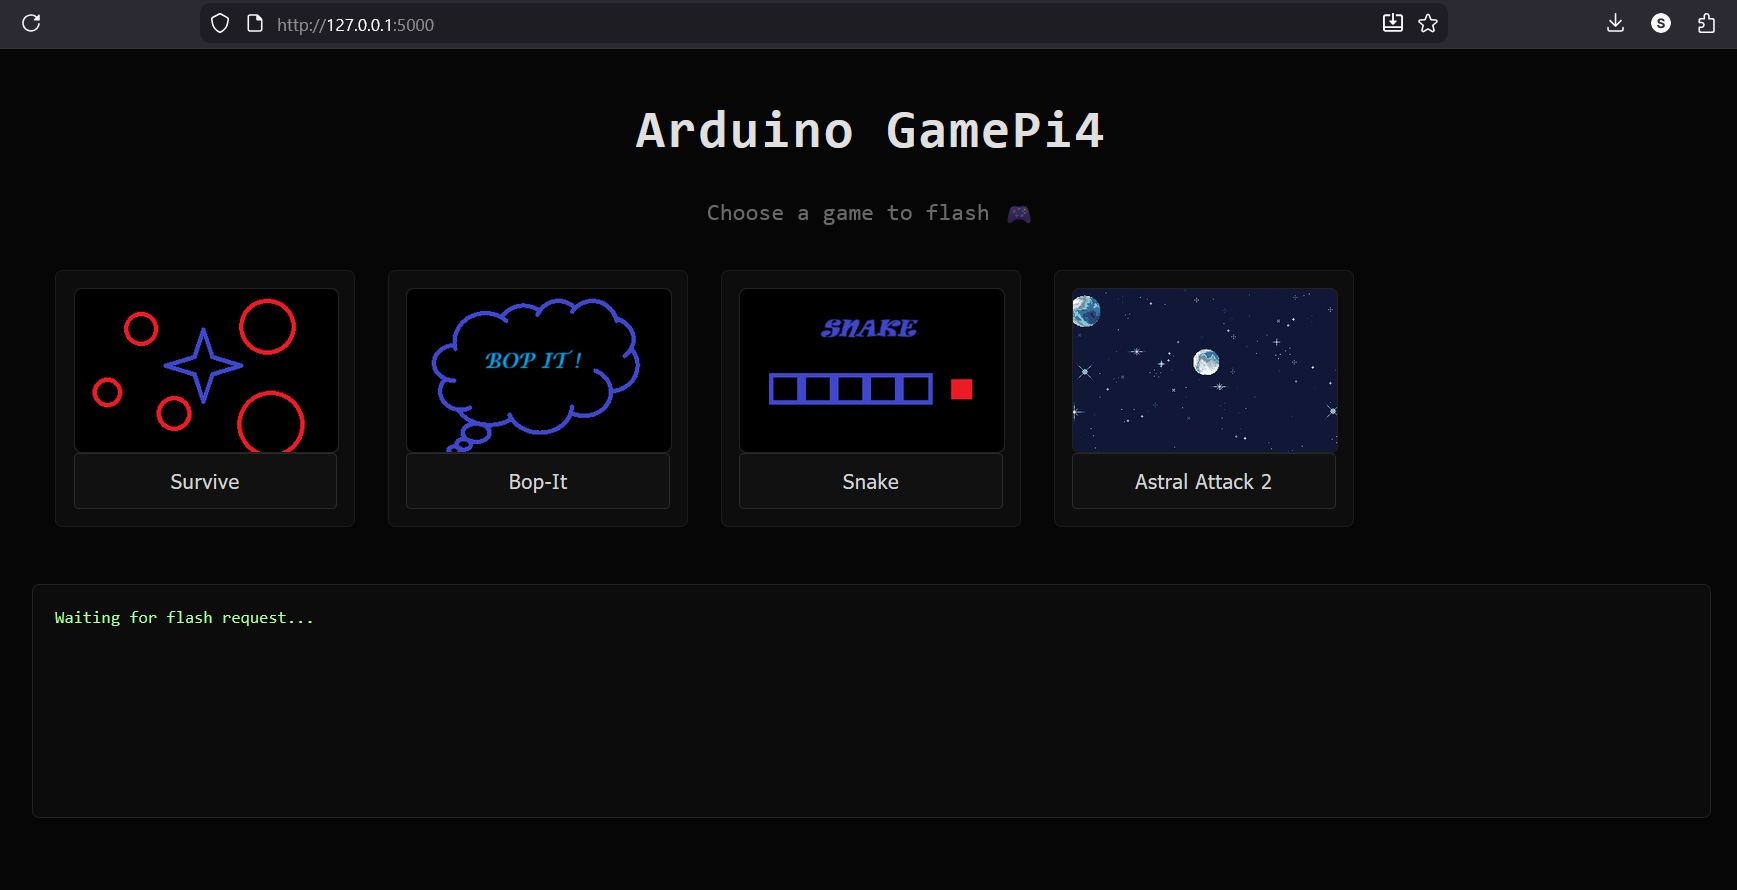
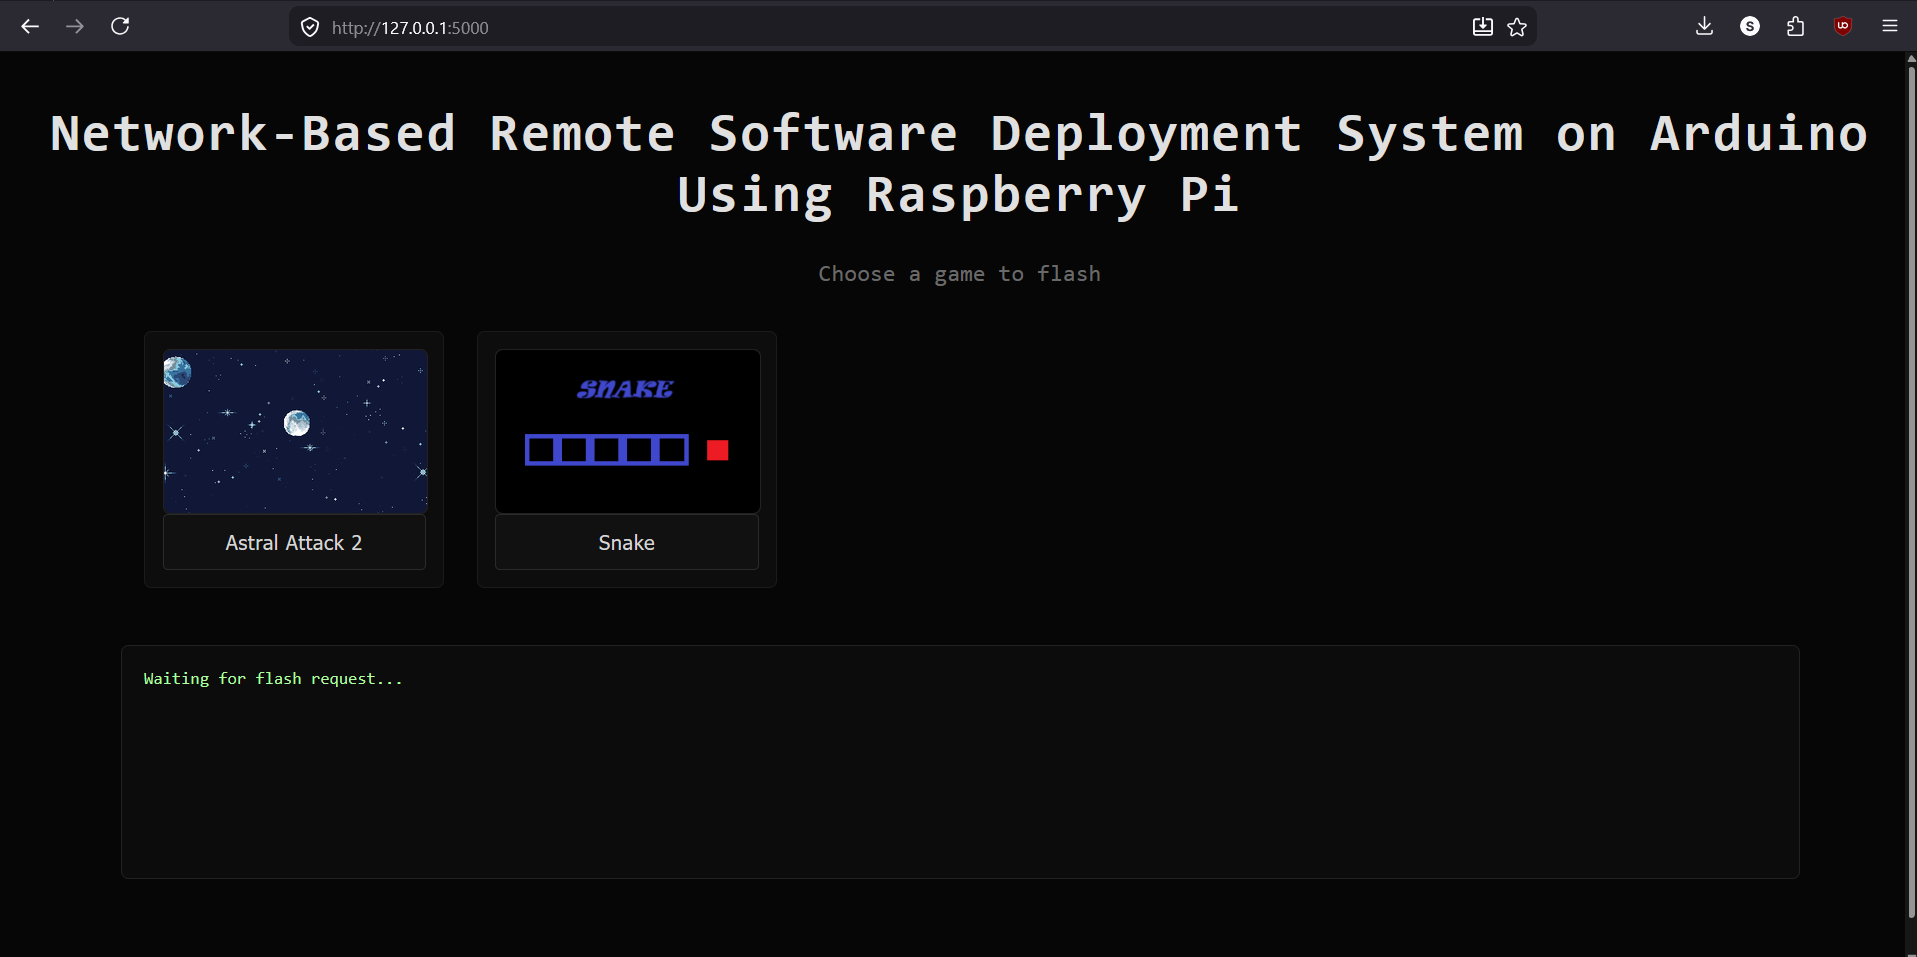
Changed Flask Server HTML header & Updated IMG

diff --git a/Raspberry Pi/app.py b/Raspberry Pi/app.py
@@ -8,6 +8,17 @@ BASE_DIR = os.environ.get("GAMECONSOLE_DIR", "/home/pi/gameconsole")
 GAMES_DIR = os.path.join(BASE_DIR, "games")
 THUMB_DIR = os.path.join(BASE_DIR, "static", "thumbnails")
 
+GAME_META = {
+    "AstralAttack2_130": {
+        "pretty": "Astral Attack 2",
+        "thumb": "Astral Attack 2.png",
+    },
+    "Snake": {
+        "pretty": "Snake",
+        "thumb": "Snake.png",
+    },
+}
+
 HTML = """
 <!DOCTYPE html>
 <html>
@@ -128,8 +139,8 @@ HTML = """
 
 <body>
 
-<h1>Arduino GamePi4</h1>
-<h3>Choose a game to flash 🎮</h3>
+<h1>Network-Based Remote Software Deployment System on Arduino Using Raspberry Pi</h1>
+<h3>Choose a game to flash </h3>
 
 <div class="game-grid">
     {% for game in games %}
@@ -170,12 +181,14 @@ def index():
     for filename in os.listdir(GAMES_DIR):
         if filename.endswith(".hex"):
             base = filename.replace(".ino.hex", "")
+            meta = GAME_META.get(base, {})
 
             # Match thumbnail
-            thumb_path = os.path.join(THUMB_DIR, base + ".png")
-            thumb_url = f"/static/thumbnails/{base}.png" if os.path.exists(thumb_path) else None
+            thumb_file = meta.get("thumb", base + ".png")
+            thumb_path = os.path.join(THUMB_DIR, thumb_file)
+            thumb_url = f"/static/thumbnails/{thumb_file}" if os.path.exists(thumb_path) else None
 
-            pretty = base.replace("_", " ").title()
+            pretty = meta.get("pretty", base.replace("_", " ").title())
 
             games.append({
                 "file": filename,